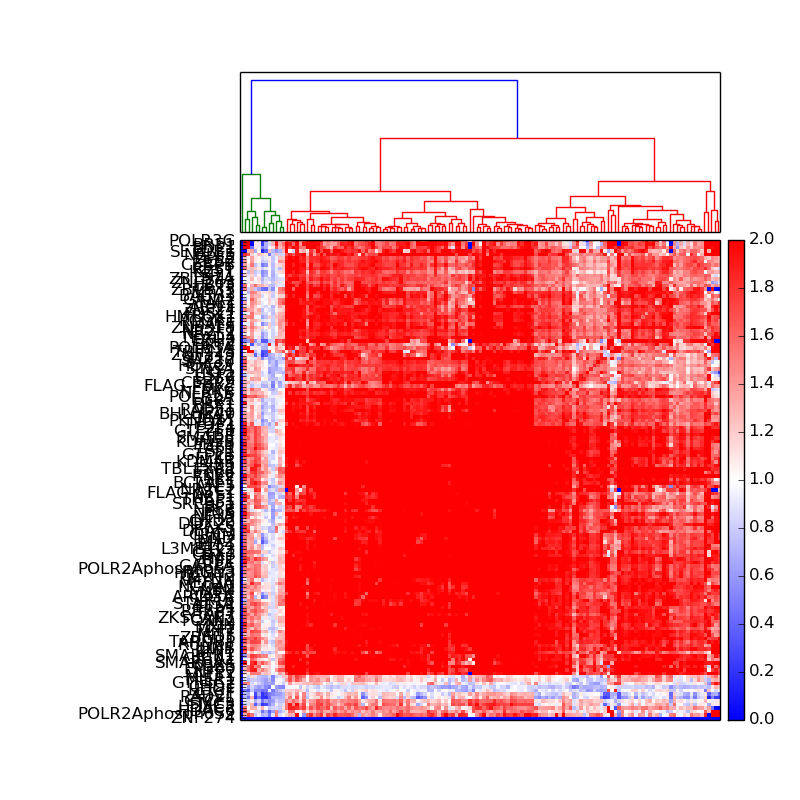
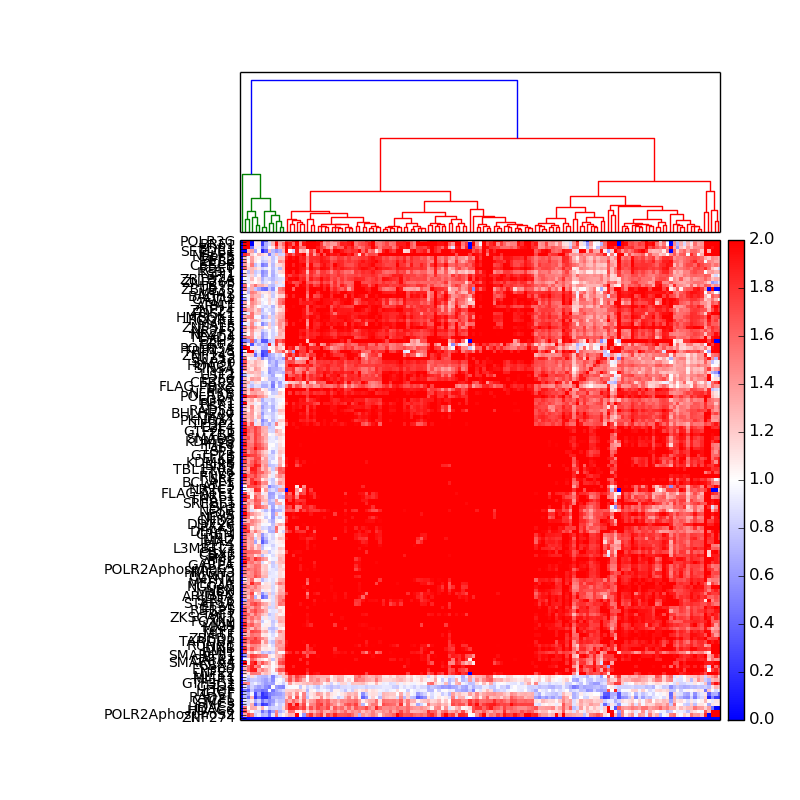
updates

Changed region(s): [[0.0938, 0.2812, 0.3125, 0.9062]]

diff --git a/src/create_matrix_from_bidirectional.py b/src/create_matrix_from_bidirectional.py
@@ -13,6 +13,7 @@ import math
 import scipy
 import pylab
 import scipy.cluster.hierarchy as sch
+from numpy.ma import masked_array
 
 def run():
     file1 = '/scratch/Users/joru1876/files/ENCFF001UWQ.bed_ChIP.bed'
@@ -107,6 +108,13 @@ def run():
     #ax1.set_xticks([])
     #ax1.set_yticks([])
     
+    v1a = masked_array(D,D<1)
+    v1b = masked_array(D,D>=1)
+    fig,ax = plt.subplots()
+    pa = ax.imshow(v1a,interpolation='nearest',cmap=plt.cm.Reds)
+    cba = plt.colorbar(pa,shrink=0.25)
+    pb = ax.imshow(v1b,interpolation='nearest',cmap=plt.cm.winter)
+    cbb = plt.colorbar(pb,shrink=0.25)
     # Compute and plot second dendrogram.
     ax2 = fig.add_axes([0.3,0.71,0.6,0.2])
     Y = sch.linkage(D, method='ward')
@@ -120,12 +128,12 @@ def run():
     idx2 = Z2['leaves']
     D = D[idx1,:]
     D = D[:,idx2]
-    im = axmatrix.matshow(D, aspect='auto', origin='lower', cmap=pylab.cm.bwr,vmax=2,vmin=0)
+    #im = axmatrix.matshow(D, aspect='auto', origin='lower', cmap=pylab.cm.bwr,vmax=2,vmin=0)
     axmatrix.set_xticks([])
     #axmatrix.set_yticks([])
     axmatrix.set_yticks(range(0,vectors.shape[0]))
     axmatrix.yaxis.tick_left()
-    axmatrix.set_yticklabels([labels[val] for val in idx1],fontsize=10)
+    axmatrix.set_yticklabels([labels[val] for val in idx1],minor=False,fontsize=8)
     
     # Plot colorbar.
     axcolor = fig.add_axes([0.91,0.1,0.02,0.6])
